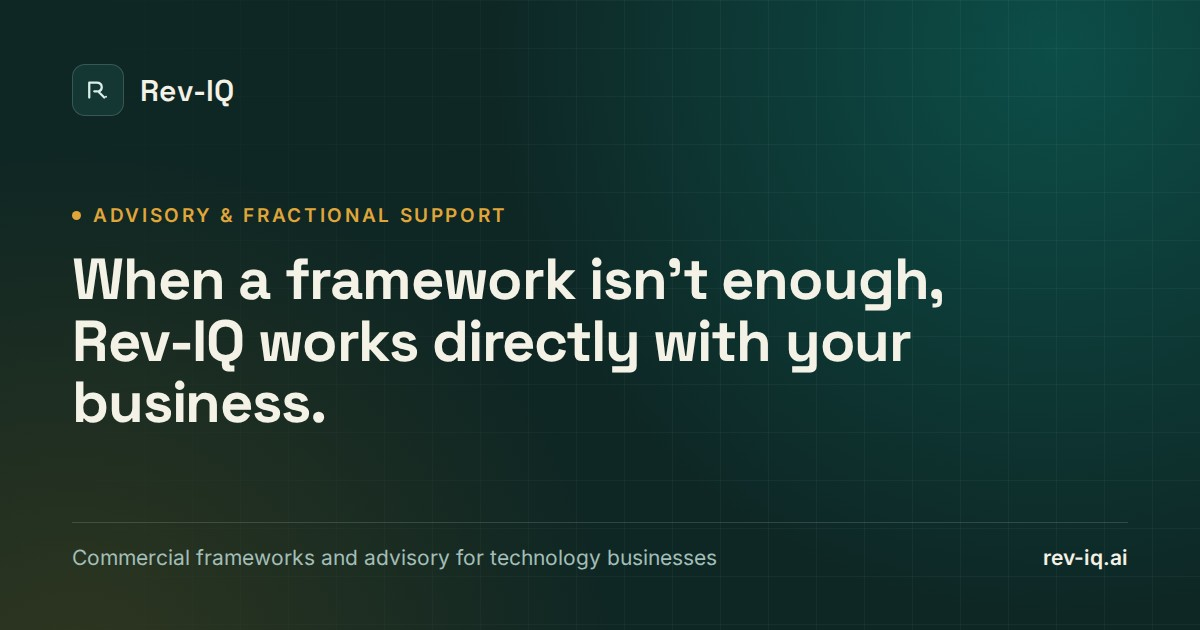
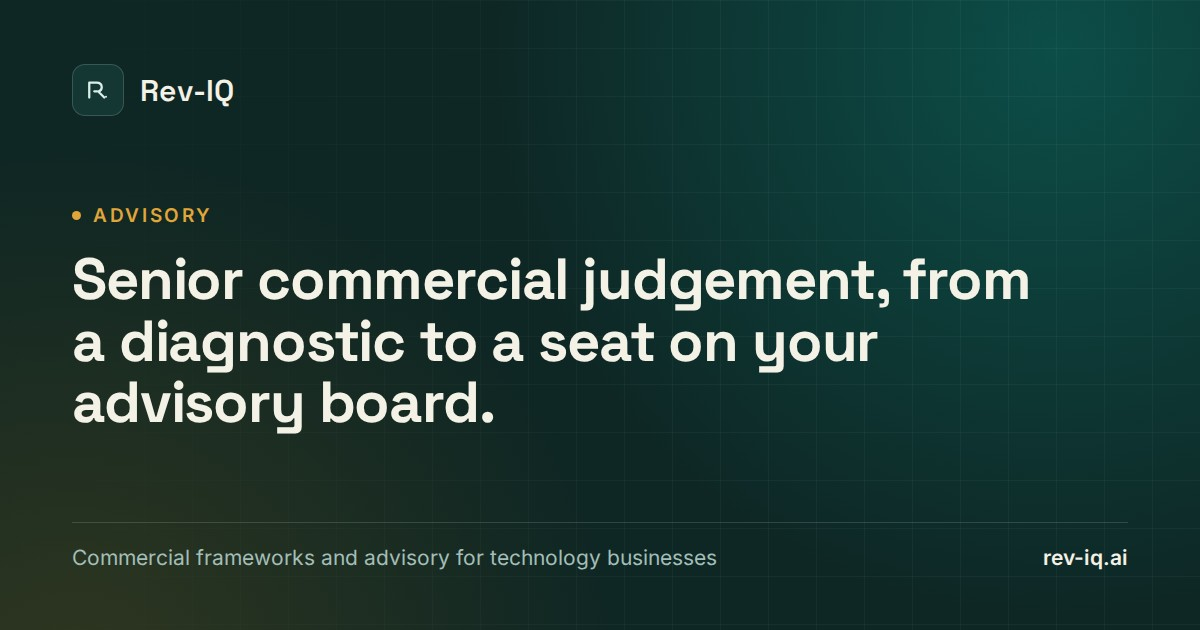
Advisory page: overview, commercial diagnostic and advisory board seat, fractional callout, simplified structure

Changed region(s): [[0.0617, 0.3921, 0.8633, 0.6937], [0.185, 0.3317, 0.4317, 0.3619]]

diff --git a/advisory.html b/advisory.html
@@ -12,22 +12,22 @@
   </script>
   <meta charset="UTF-8" />
   <meta name="viewport" content="width=device-width, initial-scale=1.0" />
-  <title>Fractional CRO and Commercial Advisory | Rev-IQ</title>
-  <meta name="description" content="Fractional CRO leadership, GTM and retention advisory, and leadership workshops for technology businesses in Australia, New Zealand and the UK. Scoped to the actual problem." />
+  <title>Commercial Advisory and Advisory Board Seats | Rev-IQ</title>
+  <meta name="description" content="Commercial diagnostics, advisory board seats, growth and retention advisory, and leadership workshops for technology businesses in Australia, New Zealand and the UK." />
   <link rel="canonical" href="https://rev-iq.ai/advisory.html" />
   <meta property="og:type" content="website" />
   <meta property="og:site_name" content="Rev-IQ" />
   <meta property="og:locale" content="en_AU" />
   <meta property="og:url" content="https://rev-iq.ai/advisory.html" />
-  <meta property="og:title" content="Advisory &amp; Fractional Support" />
-  <meta property="og:description" content="Fractional CRO leadership, GTM and retention advisory, and leadership workshops for technology businesses in Australia, New Zealand and the UK. Scoped to the actual problem." />
+  <meta property="og:title" content="Commercial advisory and advisory board seats" />
+  <meta property="og:description" content="Commercial diagnostics, advisory board seats, growth and retention advisory, and leadership workshops for technology businesses in Australia, New Zealand and the UK." />
   <meta property="og:image" content="https://rev-iq.ai/images/og/advisory.jpg" />
   <meta property="og:image:width" content="1200" />
   <meta property="og:image:height" content="630" />
-  <meta property="og:image:alt" content="Rev-IQ: When a framework isn’t enough, Rev-IQ works directly with your business." />
+  <meta property="og:image:alt" content="Rev-IQ: Senior commercial judgement, from a diagnostic to a seat on your advisory board." />
   <meta name="twitter:card" content="summary_large_image" />
-  <meta name="twitter:title" content="Advisory &amp; Fractional Support" />
-  <meta name="twitter:description" content="Fractional CRO leadership, GTM and retention advisory, and leadership workshops for technology businesses in Australia, New Zealand and the UK. Scoped to the actual problem." />
+  <meta name="twitter:title" content="Commercial advisory and advisory board seats" />
+  <meta name="twitter:description" content="Commercial diagnostics, advisory board seats, growth and retention advisory, and leadership workshops for technology businesses in Australia, New Zealand and the UK." />
   <meta name="twitter:image" content="https://rev-iq.ai/images/og/advisory.jpg" />
   <link rel="icon" href="favicon.svg" type="image/svg+xml" />
   <link rel="icon" href="favicon.ico" sizes="any" />
@@ -260,6 +260,25 @@
     .leave-with { margin-top: var(--space-6); max-width: 50ch; }
     .leave-with strong { display: block; font-size: var(--text-xs); letter-spacing: 0.1em; text-transform: uppercase; color: var(--color-primary-hover); margin-bottom: var(--space-3); }
     @media (max-width: 900px) { .involvement-grid { grid-template-columns: 1fr; } }
+    .path-block, #fractional-leadership { scroll-margin-top: 96px; }
+    .adv-overview { display: grid; grid-template-columns: repeat(5, minmax(0, 1fr)); gap: var(--space-4); }
+    .adv-pick { display: flex; flex-direction: column; padding: var(--space-5); text-decoration: none; color: inherit; transition: transform 160ms var(--ease), box-shadow 160ms var(--ease); }
+    .adv-pick:hover { transform: translateY(-2px); box-shadow: var(--shadow-md, 0 8px 24px rgba(28,25,18,0.08)); }
+    .adv-pick h3 { font-size: 1.05rem; margin-bottom: var(--space-2); }
+    .adv-pick p { font-size: var(--text-sm); color: var(--color-text-muted); margin: 0 0 var(--space-4); flex-grow: 1; }
+    .adv-pick span { font-size: var(--text-xs); font-weight: 700; color: var(--color-primary-hover); }
+    .proof-note { margin-top: var(--space-6); max-width: 50ch; padding: var(--space-4) var(--space-5); background: var(--color-primary-soft); border-radius: var(--radius-md, 10px); }
+    .proof-note strong { display: block; font-size: var(--text-xs); letter-spacing: 0.1em; text-transform: uppercase; color: var(--color-primary-hover); margin-bottom: var(--space-2); }
+    .proof-note p { margin: 0; font-size: var(--text-sm); color: var(--color-text); }
+    @media (max-width: 1080px) { .adv-overview { grid-template-columns: repeat(3, minmax(0, 1fr)); } }
+    @media (max-width: 700px) {
+      .adv-overview { grid-template-columns: 1fr; gap: var(--space-2); }
+      .adv-pick { flex-direction: row; align-items: center; justify-content: space-between; padding: var(--space-4) var(--space-5); }
+      .adv-pick h3 { margin: 0; }
+      .adv-pick p { display: none; }
+      .adv-pick span { font-size: 0; }
+      .adv-pick span::after { content: "↓"; font-size: 1rem; }
+    }
   </style>
 </head>
 <body>
@@ -323,49 +342,57 @@
   <main id="main">
     <section class="hero" style="padding-bottom: 0;">
       <div class="container">
-        <div class="eyebrow"><span class="dot"></span>Advisory &amp; fractional support</div>
-        <h1 style="font-size: clamp(2.2rem, 4.4vw, 3.6rem); max-width: 24ch;">When a framework isn’t enough, Rev-IQ works directly with your business.</h1>
-        <p class="lead" style="max-width: 66ch;">Four ways to bring Rev-IQ in, from a few hours of structured advice to ongoing fractional leadership. Every engagement is scoped to the actual problem.</p>
+        <div class="eyebrow"><span class="dot"></span>Advisory</div>
+        <h1 style="font-size: clamp(2.2rem, 4.4vw, 3.6rem); max-width: 24ch;">Senior commercial judgement, from a diagnostic to a seat on your advisory board.</h1>
+        <p class="lead" style="max-width: 66ch;">Five ways to work with Rev-IQ in an advisory capacity, each scoped to the actual problem. If you need someone to own the commercial engine day to day, see <a href="fractional-cro.html" style="color: var(--color-primary); font-weight: 600;">Fractional CRO</a>.</p>
       </div>
     </section>
-    <section class="muted-band">
+    <section style="padding-top: var(--space-10); padding-bottom: 0;">
       <div class="container">
-        <div class="principles-grid"><article class="card"><h3>Straight advice</h3><p>Honest advice on what will move the numbers. If Rev-IQ isn't the right fit, you'll hear that plainly.</p></article><article class="card"><h3>Built on operating experience</h3><p>The frameworks and advisory work here come from actually running commercial functions inside telecommunications, technology services, software and SaaS businesses across Australia, New Zealand and the UK.</p></article><article class="card"><h3>Structured before commercial</h3><p>Every engagement starts with a diagnostic read of what's actually happening, so the scope fits the problem.</p></article></div>
-      </div>
-    </section>
-    <section id="involvement">
-      <div class="container">
-        <div class="section-intro">
-          <span class="kicker">Levels of involvement</span>
-          <h2>Advisory, hands-on or embedded</h2>
-          <p>Every engagement sits at one of three levels of involvement. The level is agreed up front, so it is clear who does the work and who owns the outcome.</p>
-        </div>
-        <div class="involvement-grid">
-          <article class="card"><h3>Advisory</h3><p>Structured diagnosis, recommendations and review. Your team does the work, with Rev-IQ checking direction and quality at agreed points.</p></article>
-          <article class="card"><h3>Hands-on implementation</h3><p>Rev-IQ builds alongside your team: designing the process, setting up the tools and templates, and coaching the people who will run it.</p></article>
-          <article class="card"><h3>Embedded leadership</h3><p>Rev-IQ takes a seat in the leadership team on a fractional basis, owns commercial priorities and is accountable for results until a permanent leader is in place.</p></article>
-        </div>
+        <div class="adv-overview"><a class="card adv-pick" href="#commercial-diagnostic"><h3>Commercial diagnostic</h3><p>An evidence-based read on where growth is constrained.</p><span>See details ↓</span></a><a class="card adv-pick" href="#advisory-board"><h3>Advisory board seat</h3><p>Monthly, independent oversight to keep the plan on track.</p><span>See details ↓</span></a><a class="card adv-pick" href="#gtm-advisory"><h3>Growth &amp; GTM advisory</h3><p>Build, fix or scale the go-to-market motion.</p><span>See details ↓</span></a><a class="card adv-pick" href="#retention-advisory"><h3>Retention advisory</h3><p>Onboarding, customer success and renewals that hold.</p><span>See details ↓</span></a><a class="card adv-pick" href="#workshops-speaking"><h3>Workshops &amp; sessions</h3><p>Working sessions for leadership teams, boards and events.</p><span>See details ↓</span></a></div>
       </div>
     </section>
     <section>
       <div class="container">
-        <div class="path-block" id="fractional-leadership">
+        <div class="path-block" id="commercial-diagnostic">
           <div>
-            <span class="kicker">Fractional</span>
-            <h2>Fractional commercial leadership</h2>
-            <p style="color: var(--color-text-muted); max-width: 50ch;">For businesses that need senior commercial leadership (CRO or CCO-level thinking on pipeline, pricing, retention and team structure) but aren't ready for, or don't yet need, a full-time hire.</p>
-            <span class="involvement-tag">Involvement: Embedded leadership</span>
+            <span class="kicker">Diagnostic</span>
+            <h2>Commercial diagnostic</h2>
+            <p style="color: var(--color-text-muted); max-width: 50ch;">For businesses that know something in the commercial engine isn't working and want the evidence before committing to a fix. It is often the first step before an advisory board seat or fractional leadership.</p>
+            <span class="involvement-tag">Format: Fixed scope, agreed up front</span>
             <div class="leave-with">
               <strong>What you leave with</strong>
-              <ul class="includes"><li>Agreed commercial constraints, with the evidence gaps named</li><li>A prioritised action list with owners and dates</li><li>An accountable operating cadence and clear decision ownership</li><li>Hands-on execution support until the gap is closed or a permanent leader takes over</li></ul>
+              <ul class="includes"><li>An economic baseline built from your financial and CRM data</li><li>The real causes of churn and stalled growth, with the evidence</li><li>Clear positioning and a credible growth path</li><li>A prioritised 90-day plan with owners and dates</li></ul>
             </div>
           </div>
           <div class="card" style="padding: var(--space-6);">
             <strong style="display:block; font-size: var(--text-xs); letter-spacing:0.1em; text-transform:uppercase; color: var(--color-primary-hover); margin-bottom: var(--space-4);">What this typically includes</strong>
-            <ul class="includes"><li>A structured read on the current commercial engine and where it's constrained</li><li>Direct involvement in pipeline, forecasting, pricing or retention decisions</li><li>A working cadence set to match the size of the problem: weekly, fortnightly, or project-based</li><li>A clear handover plan once a full-time leader is hired or the gap is closed</li></ul>
+            <ul class="includes"><li>Financial and CRM analysis</li><li>Stakeholder and customer interviews</li><li>A churn and retention review</li><li>A positioning review against the market you want to win</li><li>Dashboards for the numbers that matter</li></ul>
             <div class="actions" style="margin-top: var(--space-6);">
-              <a class="btn btn-primary btn-sm" href="contact.html?reason=fractional-leadership">Discuss fractional leadership →</a>
-              <a class="btn btn-secondary btn-sm" href="fractional-cro.html">How a fractional CRO works</a>
+              <a class="btn btn-primary btn-sm" href="contact.html?reason=commercial-diagnostic">Discuss a diagnostic →</a>
+            </div>
+          </div>
+        </div>
+        <div class="path-block" id="advisory-board">
+          <div>
+            <span class="kicker">Advisory board</span>
+            <h2>Advisory board seat</h2>
+            <p style="color: var(--color-text-muted); max-width: 50ch;">For founders and leadership teams with a plan who want experienced, independent oversight to keep execution on track. Joel joins your advisory board as the commercial voice, holding the team to what was agreed and helping make the calls that matter.</p>
+            <span class="involvement-tag">Format: Monthly, with pre-reading and follow-up</span>
+            <div class="leave-with">
+              <strong>What you leave with</strong>
+              <ul class="includes"><li>A standing monthly checkpoint on progress against the plan</li><li>Decisions made and owners named at every session</li><li>Early warning when execution starts to drift</li><li>Written follow-up with actions, owners and dates</li></ul>
+            </div>
+            <div class="proof-note">
+              <strong>In practice</strong>
+              <p>A commercial diagnostic for a New Zealand SaaS business has become a monthly advisory board seat through 2027, keeping the team accountable as they execute their new plan.</p>
+            </div>
+          </div>
+          <div class="card" style="padding: var(--space-6);">
+            <strong style="display:block; font-size: var(--text-xs); letter-spacing:0.1em; text-transform:uppercase; color: var(--color-primary-hover); margin-bottom: var(--space-4);">What this typically includes</strong>
+            <ul class="includes"><li>Pre-reading reviewed before each session</li><li>A monthly session on progress, the numbers and the next decisions</li><li>Commercial challenge on pipeline, pricing, retention and growth priorities</li><li>Input on board and investor readiness ahead of a raise or exit</li></ul>
+            <div class="actions" style="margin-top: var(--space-6);">
+              <a class="btn btn-primary btn-sm" href="contact.html?reason=advisory-board">Discuss an advisory board seat →</a>
             </div>
           </div>
         </div>
@@ -374,7 +401,7 @@
             <span class="kicker">Growth</span>
             <h2>Growth &amp; GTM advisory</h2>
             <p style="color: var(--color-text-muted); max-width: 50ch;">For businesses that need to build, fix or scale their go-to-market motion, from a first sales process to a pipeline that can actually be forecast.</p>
-            <span class="involvement-tag">Involvement: Advisory or hands-on implementation</span>
+            <span class="involvement-tag">Format: Advisory or hands-on implementation</span>
             <div class="leave-with">
               <strong>What you leave with</strong>
               <ul class="includes"><li>A sharp definition of the target customer</li><li>One chosen go-to-market motion, with the reasoning written down</li><li>Qualification standards and pipeline stages the team actually uses</li><li>A measurement plan for pipeline, conversion and forecast accuracy</li></ul>
@@ -393,7 +420,7 @@
             <span class="kicker">Retention</span>
             <h2>Retention &amp; customer journey advisory</h2>
             <p style="color: var(--color-text-muted); max-width: 50ch;">For businesses where the front door works but the back end leaks: onboarding that varies by who's running it, customer success with no early warning system, or churn no one saw coming.</p>
-            <span class="involvement-tag">Involvement: Advisory or hands-on implementation</span>
+            <span class="involvement-tag">Format: Advisory or hands-on implementation</span>
             <div class="leave-with">
               <strong>What you leave with</strong>
               <ul class="includes"><li>A customer journey map from signed deal to renewal, with owners at each stage</li><li>A standard onboarding scope</li><li>A working customer health model</li><li>Support tiers and response targets the team can meet</li></ul>
@@ -412,7 +439,7 @@
             <span class="kicker">Sessions</span>
             <h2>Workshops, speaking &amp; leadership sessions</h2>
             <p style="color: var(--color-text-muted); max-width: 50ch;">For leadership teams, boards or events that want a grounded, commercially literate perspective on growth, retention and operating performance, delivered as a working session that ends in decisions.</p>
-            <span class="involvement-tag">Involvement: Advisory</span>
+            <span class="involvement-tag">Format: A single working session</span>
             <div class="leave-with">
               <strong>What you leave with</strong>
               <ul class="includes"><li>Decisions made in the room</li><li>A named owner for each decision</li><li>Follow-up actions with dates, written up and shared afterwards</li></ul>
@@ -420,16 +447,25 @@
           </div>
           <div class="card" style="padding: var(--space-6);">
             <strong style="display:block; font-size: var(--text-xs); letter-spacing:0.1em; text-transform:uppercase; color: var(--color-primary-hover); margin-bottom: var(--space-4);">What this typically includes</strong>
-            <ul class="includes"><li>Leadership team workshops on a specific commercial problem: pipeline, pricing, retention, operating rhythm</li><li>Board or investor-facing sessions on commercial readiness ahead of a raise or exit</li><li>Conference or event speaking on technology business growth, retention and revenue operations</li><li>Content built specifically for your audience</li></ul>
+            <ul class="includes"><li>Leadership team workshops on a specific commercial problem: pipeline, pricing, retention, operating rhythm</li><li>Board or investor-facing sessions on commercial readiness</li><li>Conference or event speaking on technology business growth, retention and revenue operations</li><li>Content built specifically for your audience</li></ul>
             <div class="actions" style="margin-top: var(--space-6);">
               <a class="btn btn-primary btn-sm" href="contact.html?reason=workshop-speaking">Enquire about a workshop or session →</a>
             </div>
           </div>
         </div>
+        <div class="card path-card" id="fractional-leadership" style="display:flex; flex-wrap:wrap; align-items:center; justify-content:space-between; gap: var(--space-6); padding: var(--space-8); margin-top: var(--space-10);">
+          <div style="max-width: 60ch;">
+            <span class="kicker">Need someone to own it?</span>
+            <h3 style="margin-bottom: var(--space-2);">Fractional CRO</h3>
+            <p style="margin: 0; color: var(--color-text-muted);">When advice isn't enough, a fractional CRO takes a seat in your leadership team, owns the commercial priorities and is accountable for results.</p>
+          </div>
+          <a class="btn btn-secondary" href="fractional-cro.html">How a fractional CRO works →</a>
+        </div>
       </div>
     </section>
     <section class="muted-band">
       <div class="container">
+        <div class="principles-grid" style="margin-bottom: var(--space-8);"><article class="card"><h3>Straight advice</h3><p>Honest advice on what will move the numbers. If Rev-IQ isn't the right fit, you'll hear that plainly.</p></article><article class="card"><h3>Built on operating experience</h3><p>The frameworks and advisory work here come from actually running commercial functions inside telecommunications, technology services, software and SaaS businesses across Australia, New Zealand and the UK.</p></article><article class="card"><h3>Structured before commercial</h3><p>Every engagement starts with a diagnostic read of what's actually happening, so the scope fits the problem.</p></article></div>
         <div class="card path-card" style="display:flex; flex-wrap:wrap; align-items:center; justify-content:space-between; gap: var(--space-6); padding: var(--space-8);">
           <div>
             <span class="kicker">Not sure which pathway fits?</span>
@@ -497,6 +533,130 @@
   }
   </script>
 
+  <script type="application/ld+json">
+{
+  "@context": "https://schema.org",
+  "@type": "OfferCatalog",
+  "name": "Rev-IQ advisory services",
+  "url": "https://rev-iq.ai/advisory.html",
+  "itemListElement": [
+    {
+      "@type": "Offer",
+      "itemOffered": {
+        "@type": "Service",
+        "name": "Commercial diagnostic",
+        "description": "An evidence-based read on where a technology business's commercial engine is constrained, ending in a prioritised 90-day plan.",
+        "provider": {
+          "@type": "Organization",
+          "name": "Rev-IQ",
+          "legalName": "Rev-IQ Advisory Pty Ltd",
+          "url": "https://rev-iq.ai"
+        },
+        "areaServed": [
+          "Australia",
+          "New Zealand",
+          "United Kingdom"
+        ]
+      }
+    },
+    {
+      "@type": "Offer",
+      "itemOffered": {
+        "@type": "Service",
+        "name": "Advisory board seat",
+        "description": "A monthly advisory board seat, with pre-reading and follow-up, providing commercial oversight to keep a plan's execution on track.",
+        "provider": {
+          "@type": "Organization",
+          "name": "Rev-IQ",
+          "legalName": "Rev-IQ Advisory Pty Ltd",
+          "url": "https://rev-iq.ai"
+        },
+        "areaServed": [
+          "Australia",
+          "New Zealand",
+          "United Kingdom"
+        ]
+      }
+    },
+    {
+      "@type": "Offer",
+      "itemOffered": {
+        "@type": "Service",
+        "name": "Growth and GTM advisory",
+        "description": "Advice and hands-on support to build, fix or scale a go-to-market motion.",
+        "provider": {
+          "@type": "Organization",
+          "name": "Rev-IQ",
+          "legalName": "Rev-IQ Advisory Pty Ltd",
+          "url": "https://rev-iq.ai"
+        },
+        "areaServed": [
+          "Australia",
+          "New Zealand",
+          "United Kingdom"
+        ]
+      }
+    },
+    {
+      "@type": "Offer",
+      "itemOffered": {
+        "@type": "Service",
+        "name": "Retention and customer journey advisory",
+        "description": "Onboarding, customer success, health scoring and support design that protects revenue.",
+        "provider": {
+          "@type": "Organization",
+          "name": "Rev-IQ",
+          "legalName": "Rev-IQ Advisory Pty Ltd",
+          "url": "https://rev-iq.ai"
+        },
+        "areaServed": [
+          "Australia",
+          "New Zealand",
+          "United Kingdom"
+        ]
+      }
+    },
+    {
+      "@type": "Offer",
+      "itemOffered": {
+        "@type": "Service",
+        "name": "Workshops, speaking and leadership sessions",
+        "description": "Working sessions for leadership teams, boards and events on growth, retention and operating performance.",
+        "provider": {
+          "@type": "Organization",
+          "name": "Rev-IQ",
+          "legalName": "Rev-IQ Advisory Pty Ltd",
+          "url": "https://rev-iq.ai"
+        },
+        "areaServed": [
+          "Australia",
+          "New Zealand",
+          "United Kingdom"
+        ]
+      }
+    },
+    {
+      "@type": "Offer",
+      "itemOffered": {
+        "@type": "Service",
+        "name": "Fractional CRO",
+        "description": "Part-time senior commercial leadership, accountable for results until a permanent leader is in place.",
+        "provider": {
+          "@type": "Organization",
+          "name": "Rev-IQ",
+          "legalName": "Rev-IQ Advisory Pty Ltd",
+          "url": "https://rev-iq.ai"
+        },
+        "areaServed": [
+          "Australia",
+          "New Zealand",
+          "United Kingdom"
+        ]
+      }
+    }
+  ]
+}
+  </script>
   <script src="js/forms.js" defer></script>
   <script>
     (function () {

diff --git a/contact.html b/contact.html
@@ -350,7 +350,7 @@
           <div data-state="idle"><label for="email">Email</label><input id="email" name="email" type="email" required /></div>
           <div data-state="idle"><label for="reason">Reason for reaching out</label>
             <select id="reason" name="reason">
-              <option value="general">General enquiry</option><option value="strategy-conversation">Book a strategy conversation</option><option value="fractional-leadership">Fractional commercial leadership</option><option value="gtm-advisory">Growth / GTM advisory</option><option value="retention-advisory">Retention &amp; customer journey advisory</option><option value="workshop-speaking">Workshop or speaking session</option><option value="resource-question">A question about a resource or download</option>
+              <option value="general">General enquiry</option><option value="strategy-conversation">Book a strategy conversation</option><option value="commercial-diagnostic">Commercial diagnostic</option><option value="advisory-board">Advisory board seat</option><option value="fractional-leadership">Fractional commercial leadership</option><option value="gtm-advisory">Growth / GTM advisory</option><option value="retention-advisory">Retention &amp; customer journey advisory</option><option value="workshop-speaking">Workshop or speaking session</option><option value="resource-question">A question about a resource or download</option>
             </select>
           </div>
           <div data-state="idle"><label for="message">Message</label><textarea id="message" name="message" required></textarea></div>

diff --git a/index.html b/index.html
@@ -373,7 +373,7 @@
           <strong>What it solves</strong>
           <p>Weak pipelines, founder-led sales bottlenecks, onboarding chaos, churn, pricing confusion, and the absence of any commercial operating rhythm.</p>
           <strong>How to engage</strong>
-          <p>Start with a free framework, run a short diagnostic, or bring Rev-IQ in directly as fractional leadership or advisory support.</p>
+          <p>Start with a free framework, run a commercial diagnostic, or bring Rev-IQ in as an advisor, advisory board member or fractional CRO.</p>
         </aside>
       </div>
     </section>
@@ -592,7 +592,7 @@
           <div class="card pathway-card reveal">
             <span class="kicker">Engage</span>
             <h3>Bring Rev-IQ in directly</h3>
-            <p>Fractional leadership, advisory support, or a session for your team.</p>
+            <p>A diagnostic, an advisory board seat, fractional leadership or a session for your team.</p>
             <ul>
               <li><a href="contact.html?reason=strategy-conversation">Book a strategy conversation →</a></li>
               <li><a href="advisory.html">Discuss advisory support →</a></li>
